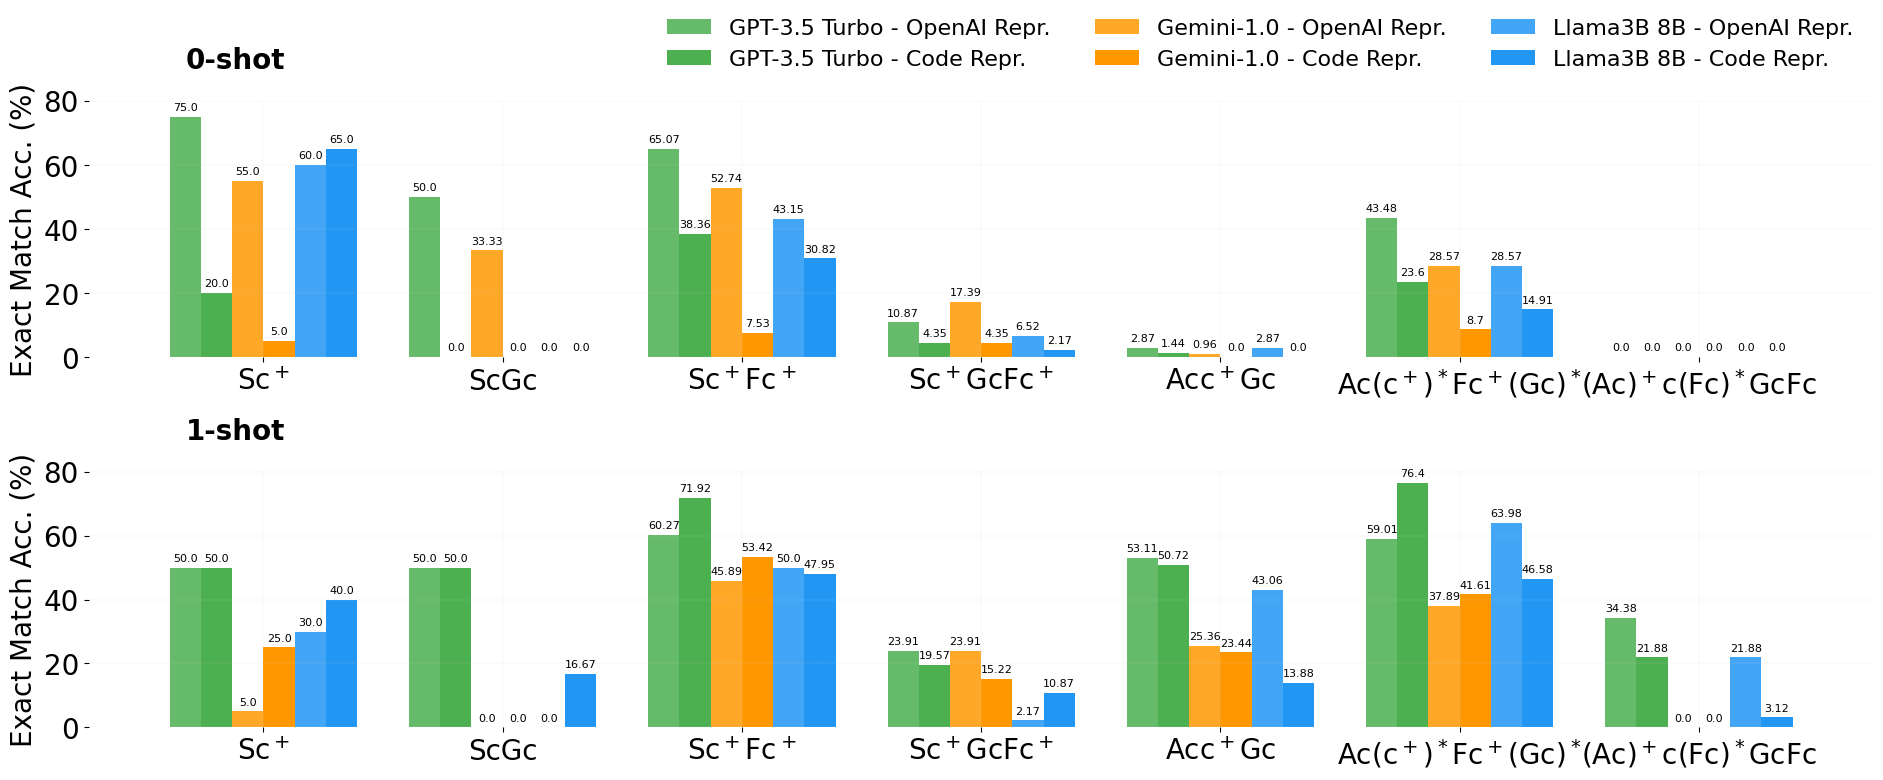
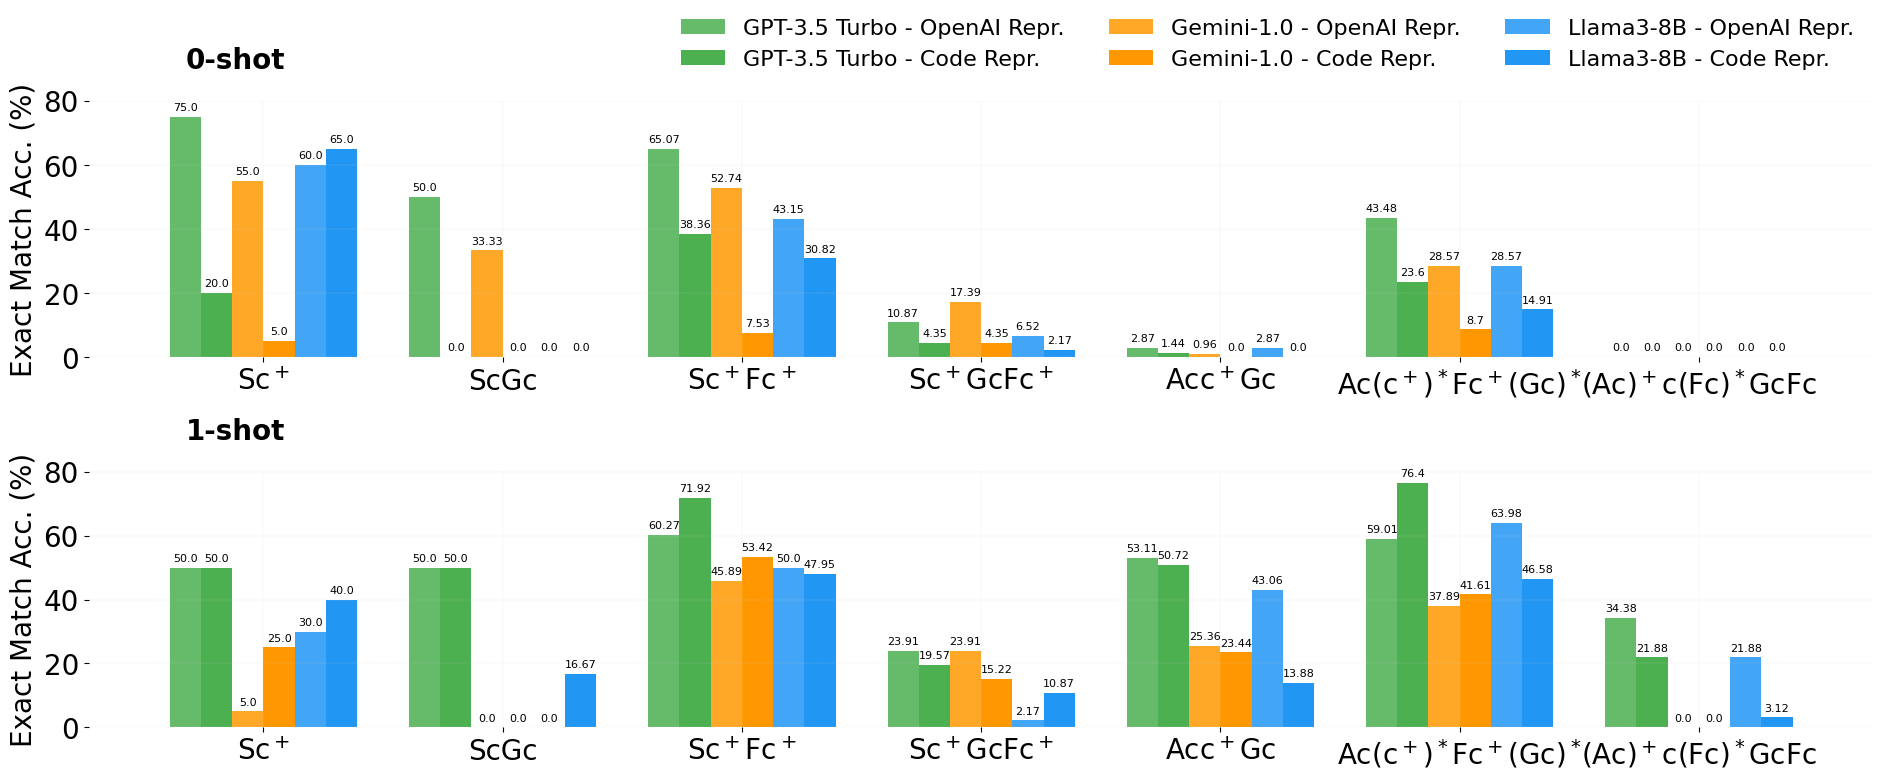
fix: label llama3 legend

Changed region(s): [[0.3388, 0.0, 0.9857, 0.0923]]

diff --git a/scripts/graphs_plot.py b/scripts/graphs_plot.py
@@ -6,7 +6,7 @@ def plot_and_save_graph_results(data, data1, file, categories, x_pos, x_position
     categories_qtd = len(categories)
     labels = ['GPT-3.5 Turbo - OpenAI Repr.', 'GPT-3.5 Turbo - Code Repr.', 
               'Gemini-1.0 - OpenAI Repr.', 'Gemini-1.0 - Code Repr.',
-              'Llama3B 8B - OpenAI Repr.', 'Llama3B 8B - Code Repr.']
+              'Llama3-8B - OpenAI Repr.', 'Llama3-8B - Code Repr.']
 
     colors = ['#66BB6A', '#4CAF50',  # Vibrant Green, Medium Green
               '#FFA726', '#FF9800',  # Vibrant Orange, Medium Orange
